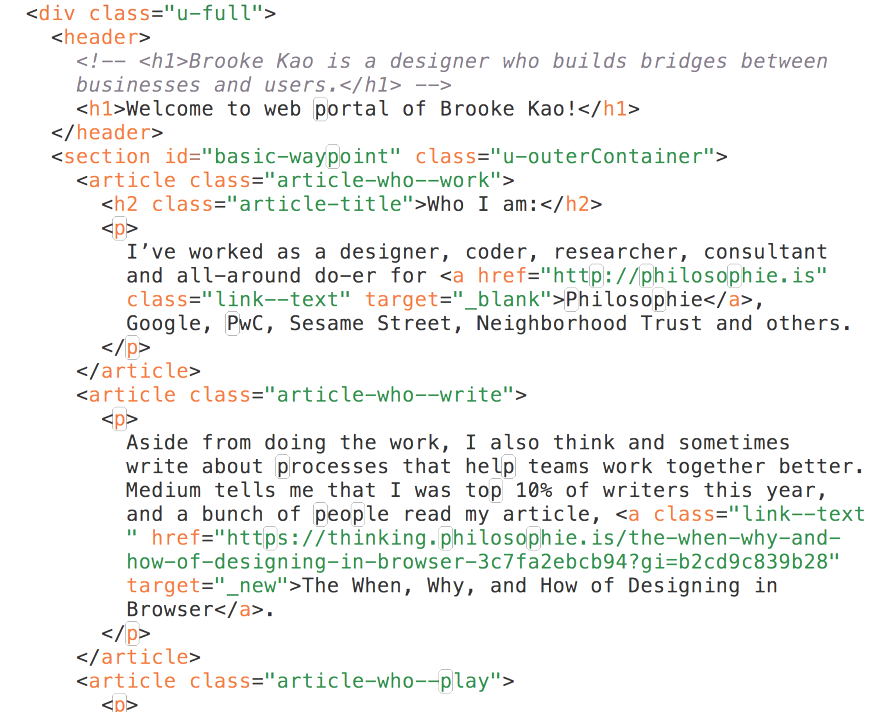
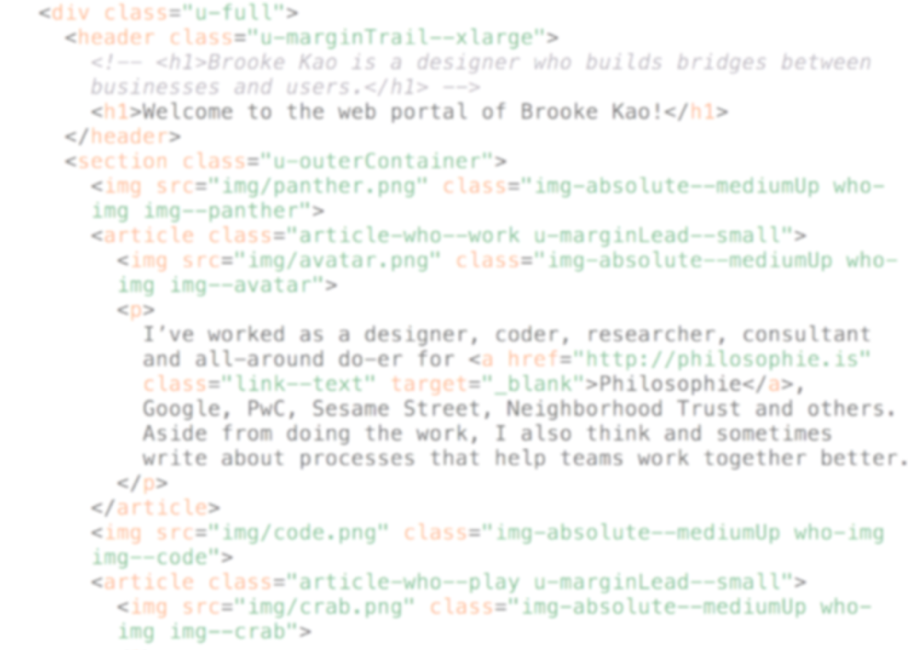
image and layout tweaks

Changed region(s): [[0.0311, 0.0, 0.9942, 1.0]]

diff --git a/index.html b/index.html
@@ -51,18 +51,12 @@
         <img src="img/panther.png" class="img-absolute--mediumUp who-img img--panther">
         <article class="article-who--work u-marginLead--small">
           <img src="img/avatar.png" class="img-absolute--mediumUp who-img img--avatar">
-          <!-- <h2 class="article-title">Who I am:</h2> -->
           <p>
             I’ve worked as a designer, coder, researcher, consultant and all-around do-er for <a href="http://philosophie.is" class="link--text" target="_blank">Philosophie</a>, Google, PwC, Sesame Street, Neighborhood Trust and others. 
- <!--          </p>
-        </article>
-        <article class="article-who--write u-marginLead--small">
-          <img src="img/code.png" class="img-absolute--mediumUp who-img img--code">
-          <p> -->
             Aside from doing the work, I also think and sometimes write about processes that help teams work together better.
-            <!-- Medium tells me that I was top 10% of writers this year, and a bunch of people read my article, <a class="link--text" href="https://thinking.philosophie.is/the-when-why-and-how-of-designing-in-browser-3c7fa2ebcb94?gi=b2cd9c839b28" target="_new">The When, Why, and How of Designing in Browser</a>. -->
           </p>
         </article>
+        <img src="img/code.png" class="img-absolute--mediumUp who-img img--code">
         <article class="article-who--play u-marginLead--small">
           <img src="img/crab.png" class="img-absolute--mediumUp who-img img--crab">
           <p>
@@ -118,6 +112,8 @@
           <h4>
             If you're interested in diving deeper without actually having to confront me just yet, check out my <a href="https://medium.com/@brookekao" target="_blank" class="link--text">Medium</a> for writing about tech and other things, <a href="https://www.linkedin.com/in/brooke-kao-3415344a" target="_blank" class="link--text">LinkedIn</a> for job history, and <a href="https://www.instagram.com/brookekao/" target="_blank" class="link--text">Instagram</a> for general stalking.
           </h4>
+          <p><small>Site Credits: Style mixins with <a href="http://bourbon.io/" target="_blank" class="link--text">Bourbon</a>, grid with <a href="http://neat.bourbon.io/" target="_blank" class="link--text">Neat</a>, hosted on <a href="https://pages.github.com/" target="_blank" class="link--text">Github Pages</a>.<br>
+          Image Credits: Avatar from <a href="https://www.fallout4.com/" target="_blank" class="link--text">Fallout 4</a> persona, panther from <a href="http://www.freetattoodesigns.org/panther-tattoos.html" target="_blank" class="link--text">freetattoodesigns.org</a>, crab from <a href="http://emojipedia.org/" target="_blank" class="link--text">Emojipedia</a>.</small></p>
         </article>
       </section>
     </div>

diff --git a/css/main.css b/css/main.css
@@ -20,7 +20,7 @@ html {
   max-width: 60em;
   margin-left: auto;
   margin-right: auto;
-  max-width: 150vh;
+  max-width: 78vw;
   margin: 39.0625px auto;
   padding: 0 18px; }
   .u-outerContainer::after, .u-outerContainer--condensed::after, .u-outerContainer--noMargin::after, .u-outerContainer--expanded::after {
@@ -810,6 +810,7 @@ dl {
     margin: 0; }
 
 .siteHead {
+  margin-left: 8.5298042998%;
   background-color: transparent; }
 
 .siteHead-wrapper {
@@ -953,9 +954,12 @@ h4 {
 a {
   color: #1022DC;
   text-decoration: none;
-  position: relative; }
+  position: relative;
+  -webkit-transition: color 200ms linear;
+  -moz-transition: color 200ms linear;
+  transition: color 200ms linear; }
   a:hover {
-    color: #0e1ec4; }
+    color: #09137d; }
 
 .link--text {
   white-space: nowrap; }
@@ -973,7 +977,10 @@ a {
   .link--text:hover:after {
     content: " ";
     width: 100%;
-    background-color: #1022DC; }
+    background-color: #1022DC;
+    -webkit-transition: width 200ms linear;
+    -moz-transition: width 200ms linear;
+    transition: width 200ms linear; }
 
 img,
 picture {
@@ -992,22 +999,23 @@ picture {
 
 @media screen and (min-width: 48em) {
   .img--avatar {
-    left: -15vw;
+    left: -17vw;
     max-width: 10vw;
-    top: -2.5vw; }
+    top: 0vw; }
 
   .img--panther {
-    right: -11vw;
-    top: 2vw;
-    max-width: 38vw; }
+    right: -21vw;
+    top: 3vw;
+    max-width: 36vw;
+    transform: rotate(-15deg); }
 
   .img--code {
-    left: -36vw;
-    top: 7vh;
-    max-width: 30vw; }
+    left: -13vw;
+    top: 40vw;
+    max-width: 34vw; }
 
   .img--crab {
-    left: -5vw;
+    left: -7vw;
     top: 13vw;
     max-width: 6vw; }
 

diff --git a/scss/theme/_images.scss b/scss/theme/_images.scss
@@ -16,22 +16,23 @@ picture {
 }
 @include media($medium-screen-up) {
   .img--avatar {
-    left: -15vw;
+    left: -17vw;
     max-width: 10vw;
-    top: -2.5vw;
+    top: 0vw;
   }
   .img--panther {
-    right: -11vw;
-    top: 2vw;
-    max-width: 38vw;
+    right: -21vw;
+    top: 3vw;
+    max-width: 36vw;
+    transform: rotate(-15deg);
   }
   .img--code {
-    left: -36vw;
-    top: 7vh;
-    max-width: 30vw;
+    left: -13vw;
+    top: 40vw;
+    max-width: 34vw;
   }
   .img--crab {
-    left: -5vw;
+    left: -7vw;
     top: 13vw;
     max-width: 6vw;
   }

diff --git a/scss/theme/_typography.scss b/scss/theme/_typography.scss
@@ -73,8 +73,9 @@ a {
   color: $color-azure;
   text-decoration: none;
   position: relative;
+  @include transition(color $transition-time $transition-ease);
   &:hover {
-    color: darken($color-azure, 5%)
+    color: darken($color-azure, 20%)
   }
 }
 .link--text {
@@ -94,6 +95,7 @@ a {
       content: " ";
       width: 100%;
       background-color: $color-azure;
+      @include transition(width $transition-time $transition-ease);
     }
   }
 }

diff --git a/scss/utilities/_grid--neat.scss b/scss/utilities/_grid--neat.scss
@@ -1,7 +1,7 @@
 // Containers
 .u-outerContainer {
   @include outer-container;
-  max-width: 150vh;
+  max-width: 78vw;
   margin: modular-scale(4) auto;
   padding: 0 $space-base * .75;
   @include media($medium-screen-up) {

diff --git a/scss/theme/_siteHead.scss b/scss/theme/_siteHead.scss
@@ -4,6 +4,7 @@ $height--siteHead: $space-base * 3 !default;
 $height--mobileBtn: $space-base !default;
 
 .siteHead {
+  @include shift(1);
   background-color: $color--siteHead;
 }
 .siteHead-wrapper {
